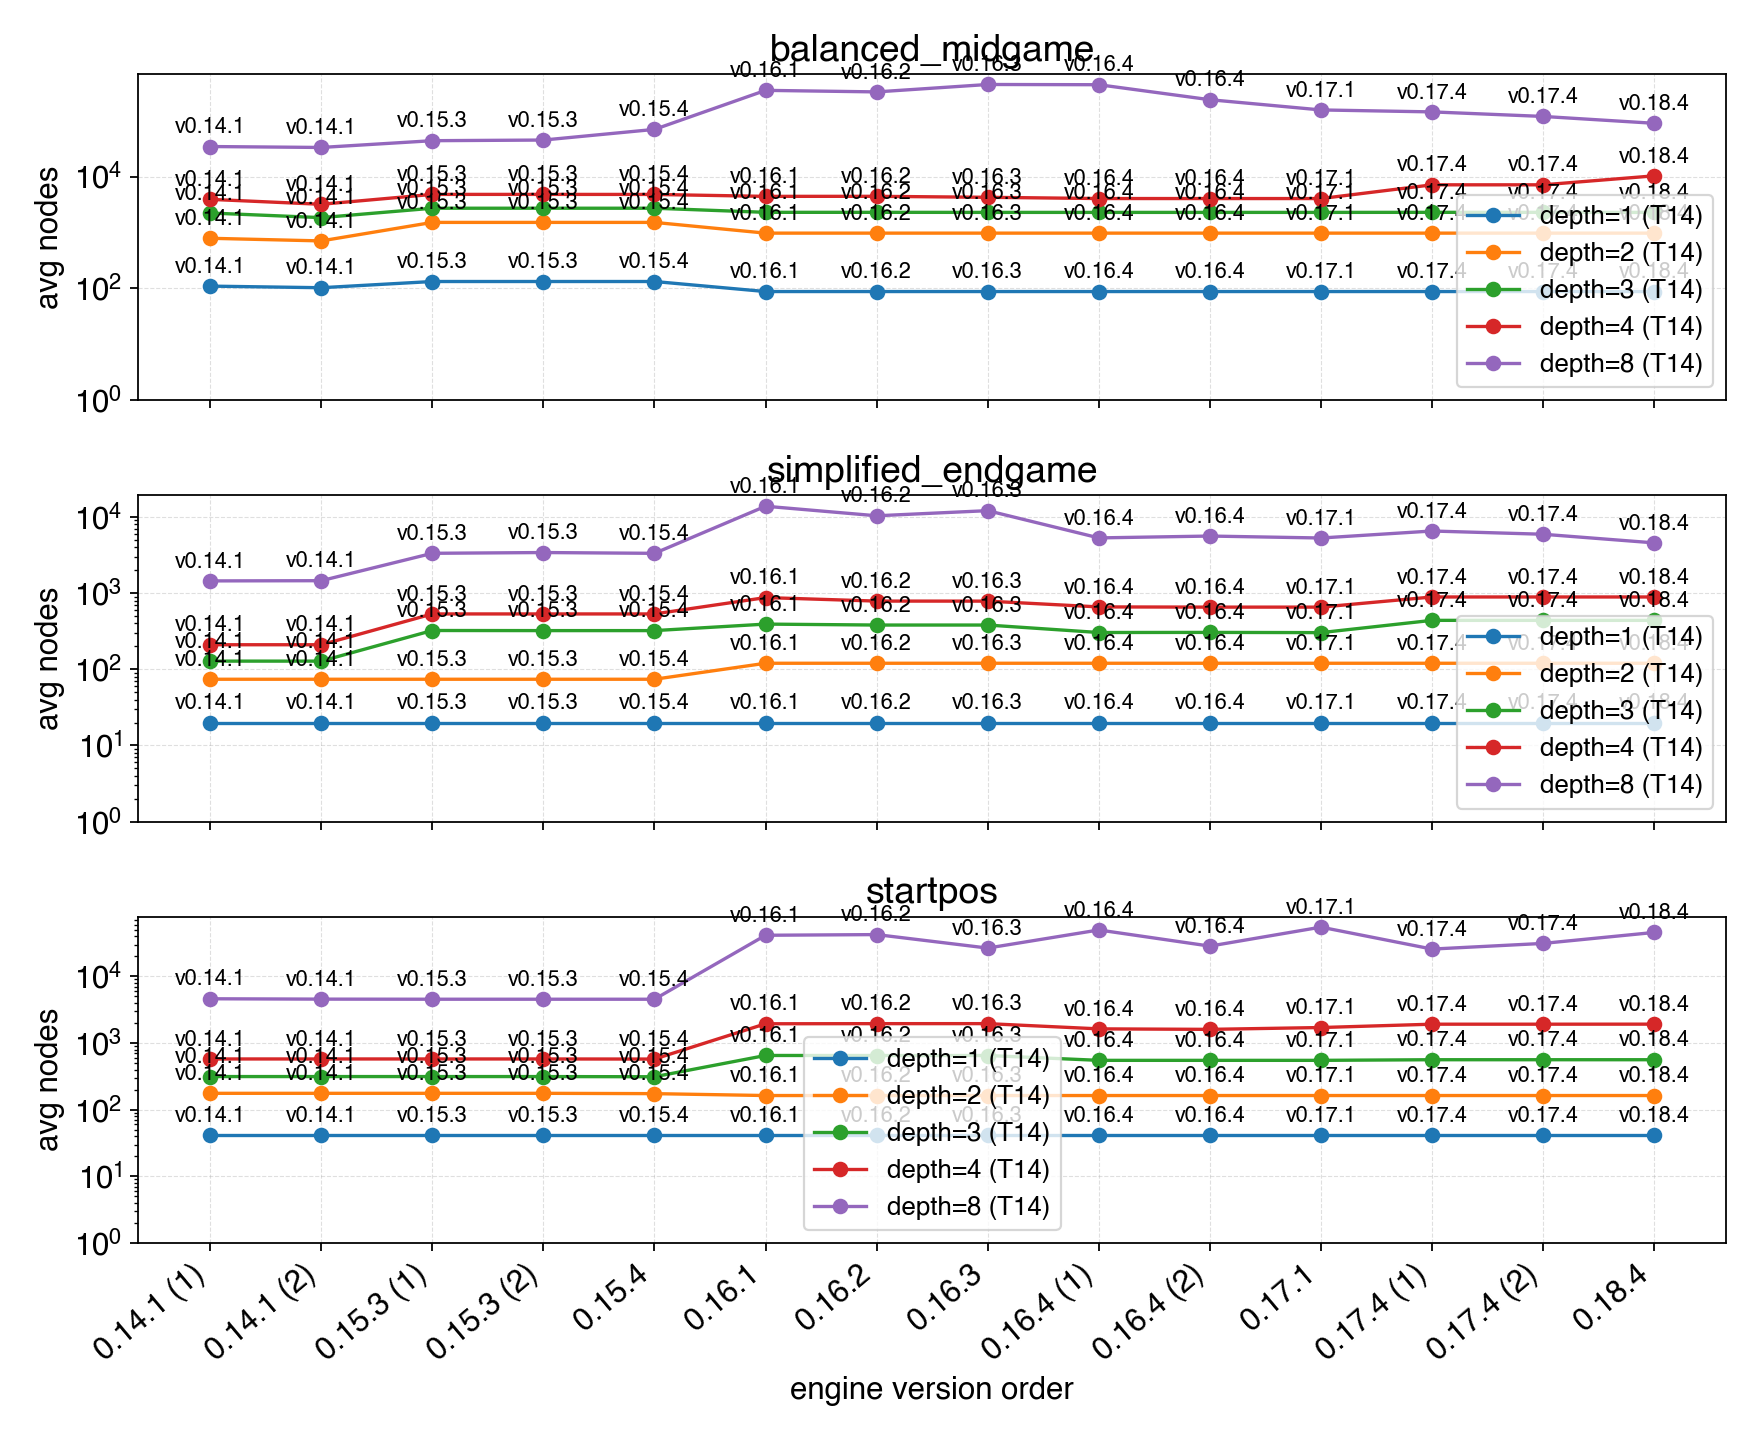
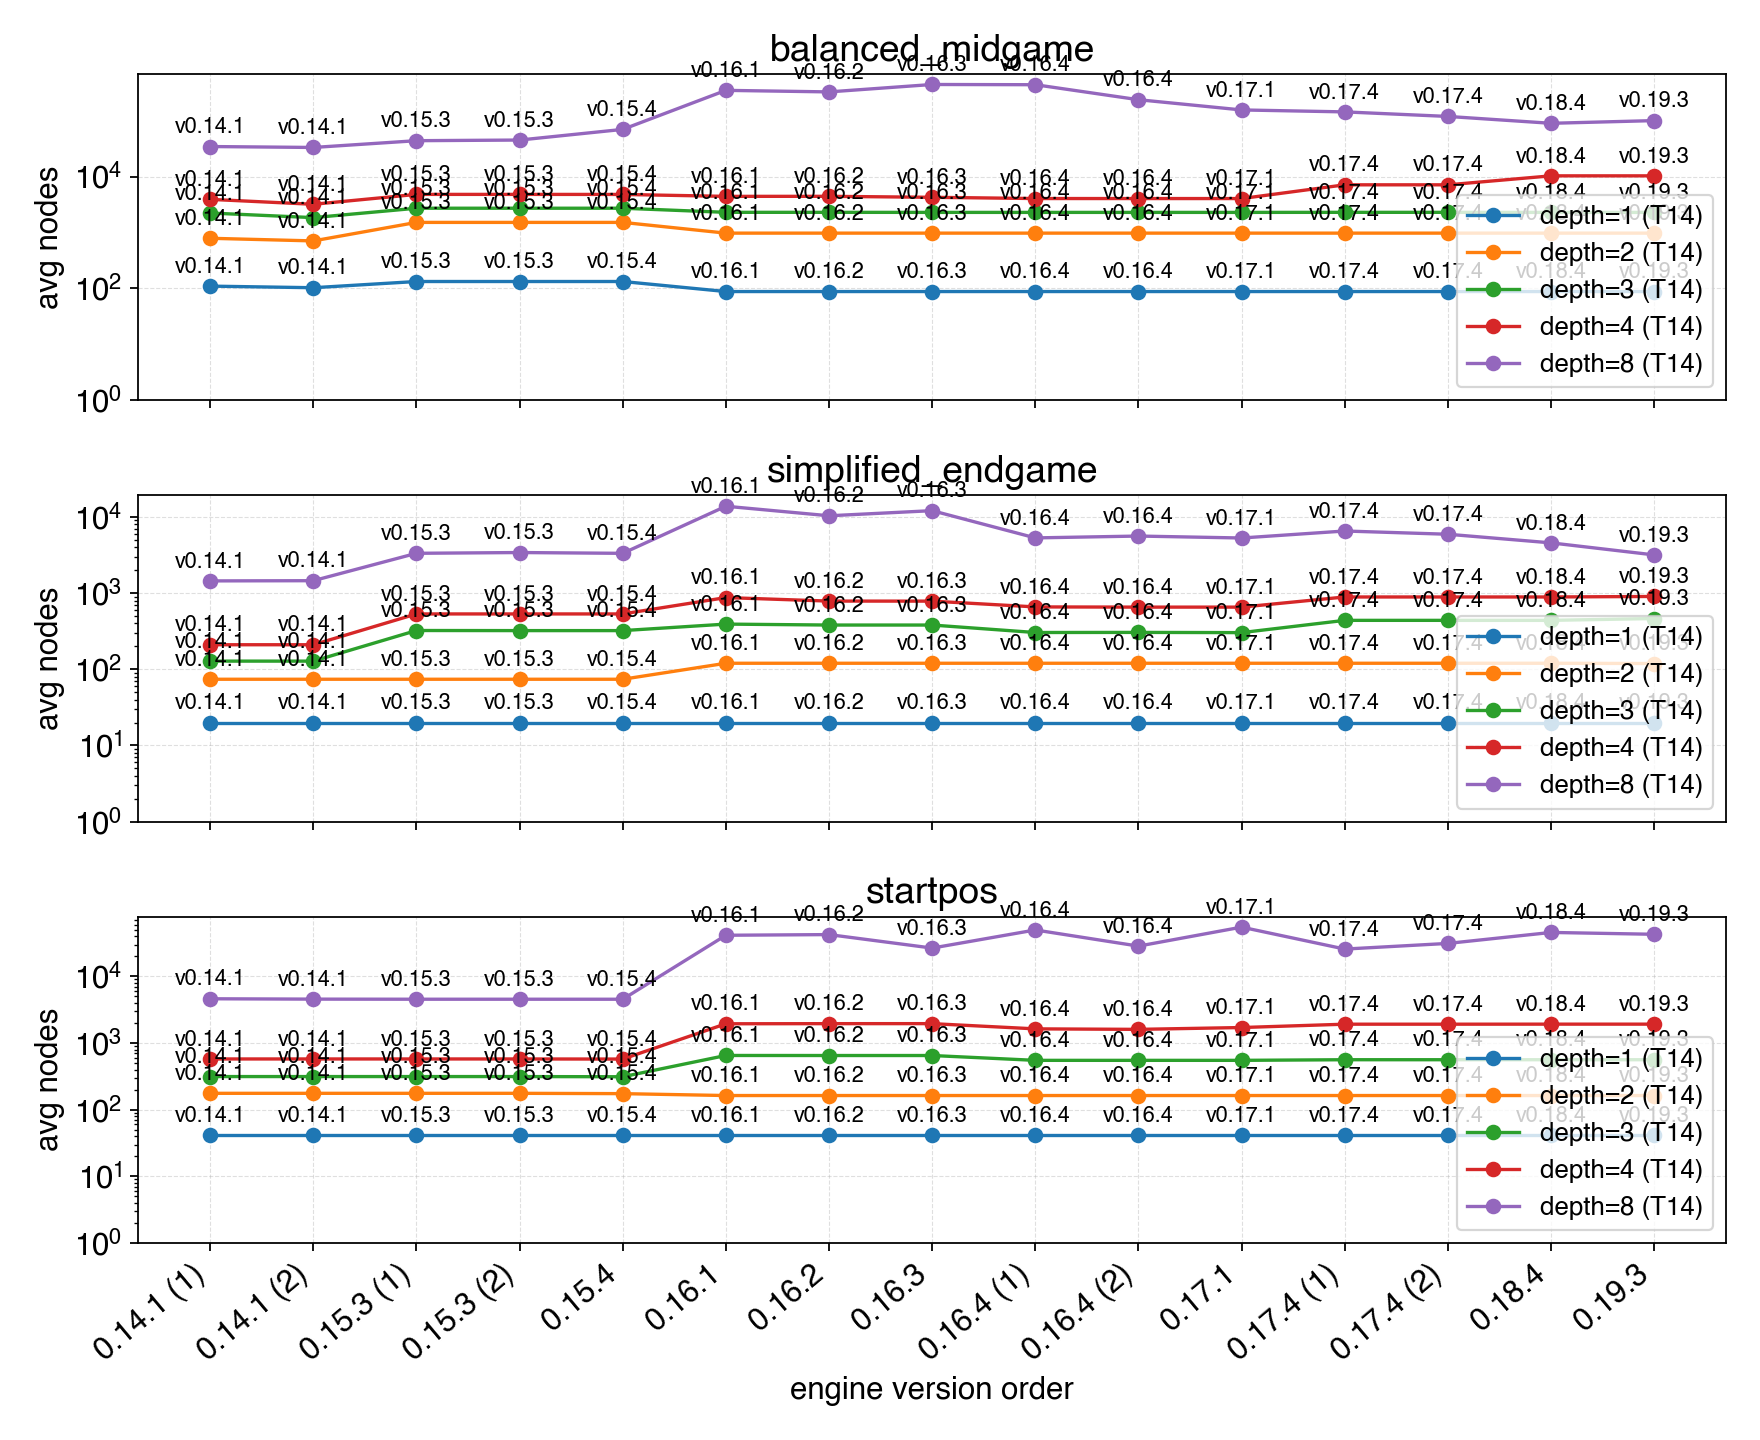
pict

diff --git a/src/moves.cpp b/src/moves.cpp
@@ -7,6 +7,7 @@
 #include "chess/history.hpp"
 #include "chess/move_ordering.hpp"
 #include "chess/piece_values.hpp"
+#include "chess/pins.hpp"
 #include "chess/pst_tables.hpp"
 #include "chess/scoring_rules.hpp"
 #include "chess/types.hpp"
@@ -127,9 +128,102 @@ generate_legal_moves(Board& board, SideToMove stm, uint16_t& move_count) {
   std::array<uint32_t, kMaxMovementCount> legal_moves{};
   uint16_t legal_move_count = 0;
   auto pseudo_moves = generate_all_moves(board, stm, move_count);
+  const bool in_check = is_check(board, stm);
+  PinnedMapByPiece pinned_map{};
+  bool use_pin_fastpath = false;
+  if (!in_check) {
+    const char* enable_pin = std::getenv("SKAKS_ENABLE_PIN_FASTPATH");
+    const auto side_idx = to_index(stm);
+    if (enable_pin && *enable_pin && board.king_list[side_idx].count > 0 &&
+        board.king_positions[side_idx] >= 0) {
+      build_pinned_map_into(board, stm, pinned_map);
+      use_pin_fastpath = true;
+    }
+  }
 
   for (uint16_t i = 0; i < move_count; ++i) {
     Move m = decode_move(pseudo_moves[i]);
+    if (use_pin_fastpath) {
+      const OccupancyType king_piece =
+          (stm == SideToMove::White) ? OccupancyType::wK : OccupancyType::bK;
+      const bool is_king_move = (m.moving_pc == king_piece);
+      const bool is_ep = flag_is_ep(m.flags);
+      if (!is_king_move && !is_ep) {
+        const auto side_idx = to_index(stm);
+        const int king_sq = board.king_positions[side_idx];
+        if (king_sq >= 0) {
+          const Bitboard from_mask = Bitboard(1) << m.from;
+          const auto& rook_rays = ROOK_RAYS[static_cast<std::size_t>(king_sq)];
+          const auto& bishop_rays =
+              BISHOP_RAYS[static_cast<std::size_t>(king_sq)];
+          const Bitboard rook_lines = rook_rays.north | rook_rays.south |
+                                      rook_rays.east | rook_rays.west;
+          const Bitboard bishop_lines =
+              bishop_rays.northeast | bishop_rays.northwest |
+              bishop_rays.southeast | bishop_rays.southwest;
+          if ((from_mask & (rook_lines | bishop_lines)) != 0) {
+            // Moving a piece that sits on a king ray can expose check.
+            // Fall back to full legality check.
+            goto full_legality_check;
+          }
+        }
+        const std::size_t from = static_cast<std::size_t>(m.from);
+        bool pinned = false;
+        Bitboard pin_mask = 0;
+
+        switch (m.moving_pc) {
+        case OccupancyType::wB:
+        case OccupancyType::bB: {
+          const auto& entry = pinned_map.bishop_pins[from];
+          pinned = entry.mask != 0;
+          pin_mask = entry.mask;
+          break;
+        }
+        case OccupancyType::wR:
+        case OccupancyType::bR: {
+          const auto& entry = pinned_map.rook_pins[from];
+          pinned = entry.mask != 0;
+          pin_mask = entry.mask;
+          break;
+        }
+        case OccupancyType::wQ:
+        case OccupancyType::bQ: {
+          const auto& entry = pinned_map.queen_pins[from];
+          pinned = entry.mask != 0;
+          pin_mask = entry.mask;
+          break;
+        }
+        case OccupancyType::wP:
+        case OccupancyType::bP: {
+          const auto& entry = pinned_map.pawn_pins[from];
+          pinned = entry.mask != 0;
+          pin_mask = entry.mask;
+          break;
+        }
+        case OccupancyType::wN:
+        case OccupancyType::bN: {
+          const auto& entry = pinned_map.knight_pins[from];
+          pinned = (entry.mask == 0);
+          pin_mask = entry.mask;
+          break;
+        }
+        default:
+          break;
+        }
+
+        if (pinned) {
+          const Bitboard to_mask = Bitboard(1) << m.to;
+          if ((pin_mask & to_mask) == 0) {
+            continue;
+          }
+        }
+
+        legal_moves[legal_move_count++] = pseudo_moves[i];
+        continue;
+      }
+    }
+
+  full_legality_check:
     Undo u = make_move(board, m);
     if (!is_check(board, stm)) {
       legal_moves[legal_move_count++] = pseudo_moves[i];

diff --git a/bindings/python/src/eval_module.cpp b/bindings/python/src/eval_module.cpp
@@ -2,6 +2,7 @@
 #include "chess/engine.hpp"
 #include "chess/engine_params.hpp"
 #include "chess/evaluation_params.hpp"
+#include "chess/magic_bitboards.hpp"
 #include "chess/moves.hpp"
 #include "chess/search.hpp"
 #include "chess/search_params.hpp"
@@ -174,6 +175,59 @@ PinPair parse_pin_pair(const py::handle& obj, const char* key) {
     return {py::cast<int>(d["base"]), py::cast<int>(d["mobility"])};
   }
   throw std::invalid_argument(std::string(key) + " must be sequence[2] or dict");
+}
+
+py::dict bench_movegen(const std::vector<std::string>& fens, int iterations,
+                       std::string mode) {
+  if (fens.empty()) {
+    throw std::invalid_argument("fens must be non-empty");
+  }
+  if (iterations <= 0) {
+    throw std::invalid_argument("iterations must be > 0");
+  }
+
+  chess::MagicBitboardsMode prev_mode = chess::magic_bitboards_mode();
+  chess::MagicBitboardsMode next_mode = chess::MagicBitboardsMode::Auto;
+  if (mode == "slow") {
+    next_mode = chess::MagicBitboardsMode::Slow;
+  } else if (mode == "auto" || mode == "magic") {
+    next_mode = chess::MagicBitboardsMode::Auto;
+  } else {
+    throw std::invalid_argument("mode must be 'auto' or 'slow'");
+  }
+
+  std::vector<chess::Board> boards;
+  boards.reserve(fens.size());
+  for (const auto& fen : fens) {
+    boards.emplace_back(chess::initial_board(fen));
+  }
+
+  chess::set_magic_bitboards_mode(next_mode);
+  const auto start = std::chrono::steady_clock::now();
+
+  std::uint64_t total_moves = 0;
+  for (int it = 0; it < iterations; ++it) {
+    for (auto& board : boards) {
+      std::uint16_t move_count = 0;
+      auto moves =
+          chess::generate_legal_moves(board, board.side_to_move, move_count);
+      (void)moves;
+      total_moves += move_count;
+    }
+  }
+
+  const auto elapsed_ms = std::chrono::duration_cast<std::chrono::milliseconds>(
+                              std::chrono::steady_clock::now() - start)
+                              .count();
+  chess::set_magic_bitboards_mode(prev_mode);
+
+  const double elapsed_sec = std::max(1.0, elapsed_ms / 1000.0);
+  const double moves_per_sec = static_cast<double>(total_moves) / elapsed_sec;
+
+  return py::dict("iterations"_a = iterations,
+                  "positions"_a = static_cast<int>(boards.size()),
+                  "total_moves"_a = total_moves, "elapsed_ms"_a = elapsed_ms,
+                  "moves_per_sec"_a = moves_per_sec, "mode"_a = mode);
 }
 
 chess::EngineParams params_from_dict(const py::dict& root) {
@@ -1119,6 +1173,10 @@ PYBIND11_MODULE(skaks_eval, m) {
   m.def("eval_fen", &eval_fen_single, py::arg("fen"),
         py::arg("params") = std::nullopt,
         "Evaluate a single FEN. Returns {ok, cp or error}.");
+
+  m.def("bench_movegen", &bench_movegen, py::arg("fens"),
+        py::arg("iterations") = 1000, py::arg("mode") = "auto",
+        "Benchmark move generation for a list of FENs. mode: 'auto' or 'slow'.");
 
   m.def(
       "selfplay",

diff --git a/src/magic_bitboards.cpp b/src/magic_bitboards.cpp
@@ -5,6 +5,7 @@
 #include "chess/ray_tables.hpp"
 
 #include <array>
+#include <atomic>
 #include <cassert>
 #include <cstddef>
 #include <cstdint>
@@ -51,6 +52,7 @@ std::array<int, 64> g_bishop_bit_counts{};
 std::once_flag g_magic_once;
 bool g_magic_ready = false;
 std::string_view g_magic_source = "disabled";
+std::atomic<MagicBitboardsMode> g_magic_mode{MagicBitboardsMode::Auto};
 
 Bitboard rook_mask(int sq) {
   const int rank = sq / 8;
@@ -461,6 +463,14 @@ std::string_view magic_source() {
   return g_magic_source;
 }
 
+MagicBitboardsMode magic_bitboards_mode() {
+  return g_magic_mode.load(std::memory_order_relaxed);
+}
+
+void set_magic_bitboards_mode(MagicBitboardsMode mode) {
+  g_magic_mode.store(mode, std::memory_order_relaxed);
+}
+
 bool magic_bitboards_ready() {
   return g_magic_ready;
 }
@@ -471,6 +481,9 @@ Bitboard rook_attacks_magic(int sq, Bitboard occ) {
   // or hangs in magic number generation during test execution.
   return rook_attacks_slow(sq, occ);
 #else
+  if (g_magic_mode.load(std::memory_order_relaxed) == MagicBitboardsMode::Slow) {
+    return rook_attacks_slow(sq, occ);
+  }
   const auto& entry = g_rook_magics[static_cast<std::size_t>(sq)];
 
   // Fast path: Magic bitboards
@@ -491,6 +504,9 @@ Bitboard bishop_attacks_magic(int sq, Bitboard occ) {
   // Use slow reference implementation in tests.
   return bishop_attacks_slow(sq, occ);
 #else
+  if (g_magic_mode.load(std::memory_order_relaxed) == MagicBitboardsMode::Slow) {
+    return bishop_attacks_slow(sq, occ);
+  }
   const auto& entry = g_bishop_magics[static_cast<std::size_t>(sq)];
 
   // Fast path: Magic bitboards

diff --git a/scripts/plot_perf_runs.py b/scripts/plot_perf_runs.py
@@ -15,6 +15,7 @@ import matplotlib.pyplot as plt
 
 SNAPSHOT_RE = re.compile(r"=== perf snapshot (.+) ===")
 VERSION_RE = re.compile(r"skaks version\s+(.+)")
+VERSION_RE_N = re.compile(r"ŝ𝕜𝕒𝕜ŝ version\s+(.+)")
 CASE_RE = re.compile(r"\[case\]\s+(.+)")
 THREAD_HEADER_RE = re.compile(r"threads:\s+(\d+)")
 THREAD_VALUE_RE = re.compile(r"threads=(\d+)")
@@ -60,6 +61,10 @@ def parse_log(path: Path) -> list[PerfRow]:
                 current_threads = int(thread_header.group(1))
                 continue
             version_match = VERSION_RE.match(line)
+            if version_match:
+                version = version_match.group(1).strip()
+                continue
+            version_match = VERSION_RE_N.match(line)
             if version_match:
                 version = version_match.group(1).strip()
                 continue

diff --git a/src/pins.cpp b/src/pins.cpp
@@ -81,6 +81,12 @@ void build_pinned_map_into(const Board& board, SideToMove stm,
                            PinnedMapByPiece& pinned_map) {
   reset_pin_map(pinned_map);
 
+  const auto side_idx = to_index(stm);
+  if (board.king_list[side_idx].count == 0 ||
+      board.king_positions[side_idx] < 0) {
+    return;
+  }
+
   const auto pick_index = [](Bitboard mask, Edge edge) {
     return static_cast<u_int8_t>(edge == Edge::Forward
                                      ? to_index(lsb_index(mask))

diff --git a/include/chess/version.hpp b/include/chess/version.hpp
@@ -6,7 +6,7 @@
 namespace chess {
 
 inline constexpr std::string_view kEngineName = "ŝ𝕜𝕒𝕜ŝ";
-inline constexpr std::string_view kEngineVersion = "0.19.1";
+inline constexpr std::string_view kEngineVersion = "0.19.4";
 
 inline constexpr std::array<std::string_view, 20> kOptimizationFeatures{
     "Bitboard generation with precomputed attack masks and magic bitboards",

diff --git a/include/chess/magic_bitboards.hpp b/include/chess/magic_bitboards.hpp
@@ -19,6 +19,11 @@ void init_magic_bitboards();
  */
 bool magic_bitboards_ready();
 
+enum class MagicBitboardsMode { Auto, Slow };
+
+MagicBitboardsMode magic_bitboards_mode();
+void set_magic_bitboards_mode(MagicBitboardsMode mode);
+
 /**
  * @brief Get rook attacks using magic bitboards.
  */

diff --git a/README.md b/README.md
@@ -1,5 +1,7 @@
 # Skaks chess engine
 
+![skaks](skaks_pict.png)
+
 Simple toy chess engine, for learning and fun. 
 
 > Uses Stockfish NNUE as I was tired of tuning my eval. There's at least 200 ELO point difference between the classical heuristic and the NNUE version. The incremental eval for NNUE is ok, though done via an adaptor. Even with the Stockfish NNUE and all my efforts to improve search, it's not a very strong engine, 2000 ELO tops.
